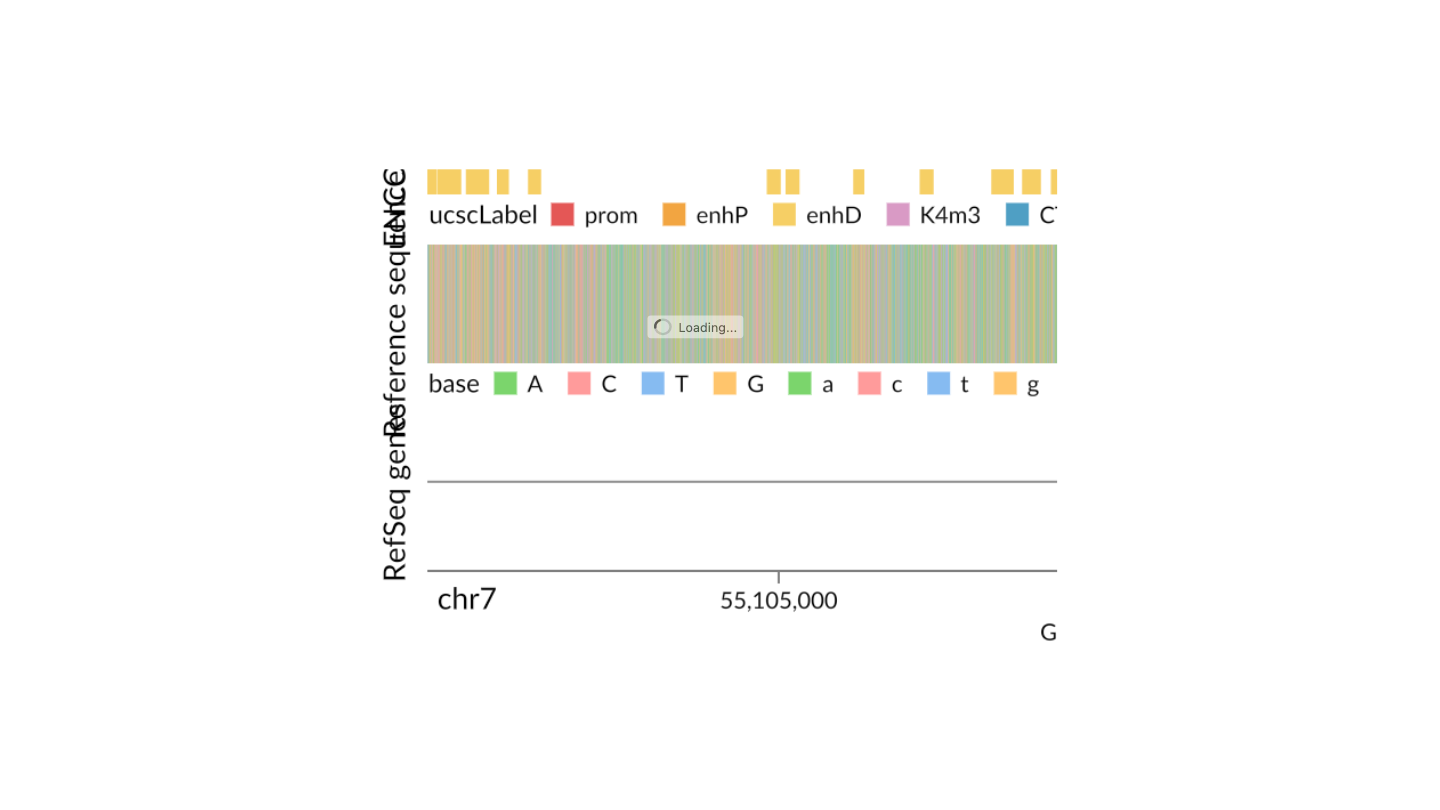
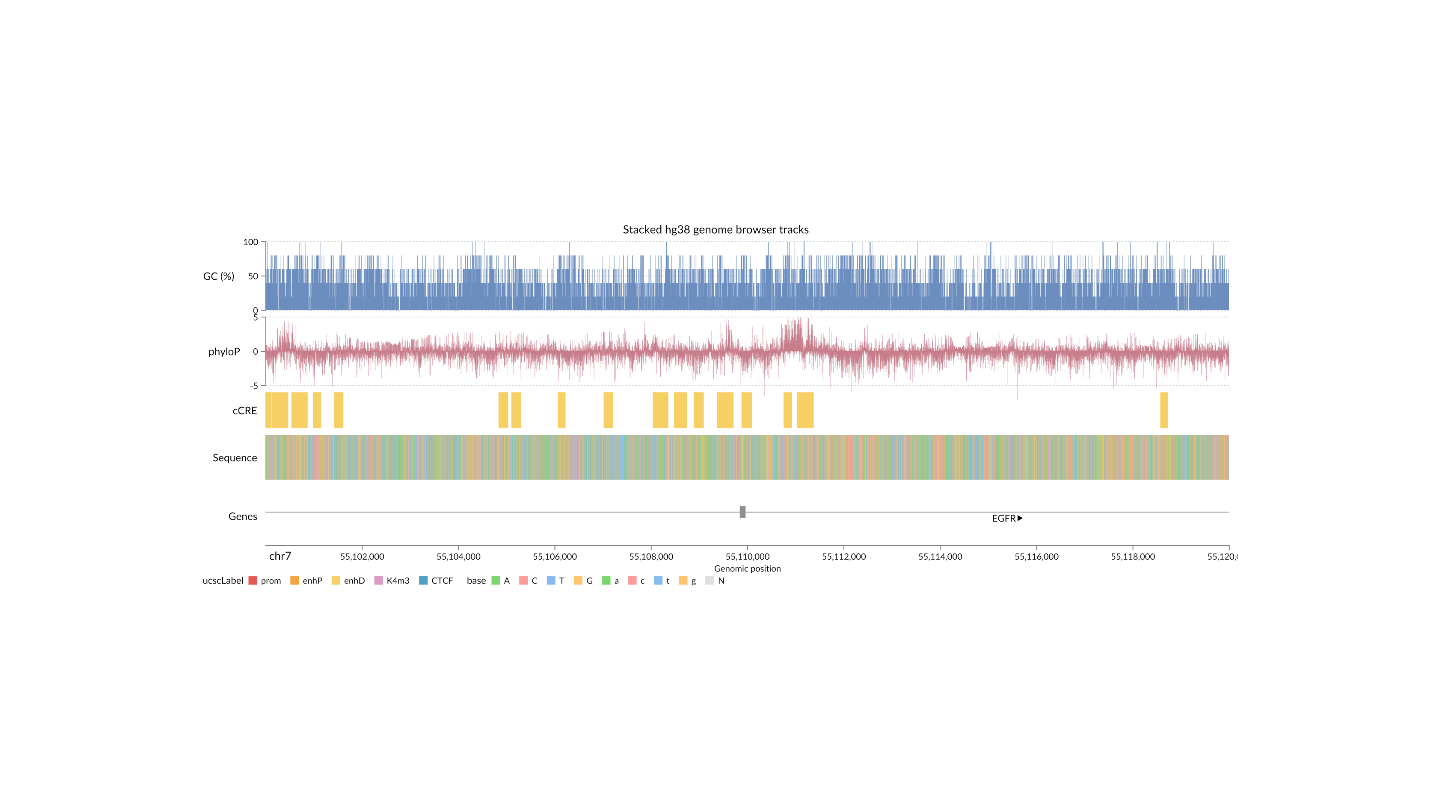
docs: fix stacked genome browser gallery example

Changed region(s): [[0.1562, 0.1852, 0.875, 0.7716], [0.7188, 0.7716, 0.75, 0.8025]]

diff --git a/docs/examples/stacked_genome_browser.py b/docs/examples/stacked_genome_browser.py
@@ -30,10 +30,10 @@ gc_track = (
         x2=gs.Locus("chrom", "end"),
         y=gs.Y("score:Q")
         .scale(domain=[0, 100])
-        .axis(title="GC (%)", grid=True, gridDash=[2, 2]),
+        .axis(title=None, grid=True, gridDash=[2, 2]),
     )
     .properties(
-        name="gc-content", title=gs.title("GC content", orient="left"), height=80
+        name="gc-content", title=gs.title("GC (%)", style="track-title"), height=80
     )
 )
 
@@ -51,11 +51,11 @@ conservation_track = (
         x2=gs.Locus("chrom", "end"),
         y=gs.Y("score:Q")
         .scale(domain=[-5, 5])
-        .axis(title="phyloP", grid=True, gridDash=[2, 2]),
+        .axis(title=None, grid=True, gridDash=[2, 2]),
     )
     .properties(
         name="phylop-100way",
-        title=gs.title("100-way conservation", orient="left"),
+        title=gs.title("phyloP", style="track-title"),
         height=80,
     )
 )
@@ -76,7 +76,7 @@ ccre_track = (
             range=["#e45756", "#f2a541", "#f6cf65", "#d99ac5", "#4f9fc4"],
         ),
     )
-    .properties(name="ccre", title=gs.title("ENCODE cCRE", orient="left"), height=42)
+    .properties(name="ccre", title=gs.title("cCRE", style="track-title"), height=42)
 )
 
 
@@ -99,7 +99,7 @@ sequence_track = (
     (sequence_rects + sequence_labels)
     .properties(
         name="sequence",
-        title=gs.title("Reference sequence", orient="left"),
+        title=gs.title("Sequence", style="track-title"),
         height=52,
         data=gs.lazy.indexed_fasta(
             "https://data.genomespy.app/genomes/hg38/hg38.fa", windowSize=30_000
@@ -201,7 +201,7 @@ refseq_track = (
     gs.layer(transcripts, symbols)
     .properties(
         name="refseq-track",
-        title=gs.title("RefSeq genes", orient="left"),
+        title=gs.title("Genes", style="track-title"),
         height=gs.step(23),
         data=gs.Data(
             url="https://data.genomespy.app/genomes/hg38/refSeqGenes-hg38-release232.tsv.gz",
@@ -259,6 +259,7 @@ chart = (
         spacing=8,
         scales=gs.scales(x=gs.Scale(domain=DOMAIN)),
     )
-    .resolve_scale(x="shared", y="independent")
+    .resolve_scale(x="shared", y="independent", color="independent")
     .resolve_axis(x="shared", y="independent")
+    .resolve_legend(color="collected")
 )

diff --git a/tests/test_docs_gallery.py b/tests/test_docs_gallery.py
@@ -510,8 +510,9 @@ def test_stacked_genome_browser_uses_shared_hg38_locus() -> None:
         {"chrom": "chr7", "pos": 55120000},
     ]
     assert example.spec["resolve"] == {
-        "scale": {"x": "shared", "y": "independent"},
+        "scale": {"x": "shared", "y": "independent", "color": "independent"},
         "axis": {"x": "shared", "y": "independent"},
+        "legend": {"color": "collected"},
     }
     assert example.spec["axes"] == {
         "x": {"orient": "bottom", "title": "Genomic position"}
@@ -526,6 +527,15 @@ def test_stacked_genome_browser_uses_shared_hg38_locus() -> None:
         "sequence",
         "refseq-track",
     ]
+    assert [track["title"] for track in tracks] == [
+        {"text": "GC (%)", "style": "track-title"},
+        {"text": "phyloP", "style": "track-title"},
+        {"text": "cCRE", "style": "track-title"},
+        {"text": "Sequence", "style": "track-title"},
+        {"text": "Genes", "style": "track-title"},
+    ]
+    assert tracks[0]["encoding"]["y"]["axis"]["title"] is None
+    assert tracks[1]["encoding"]["y"]["axis"]["title"] is None
     assert [track["data"]["lazy"]["type"] for track in tracks[:4]] == [
         "bigwig",
         "bigwig",

diff --git a/plans/devlog.md b/plans/devlog.md
@@ -1,5 +1,13 @@
 # Dev Log
 
+## 2026-08-24 - Tidied stacked genome-browser guides
+
+- Replaced long rotated labels with short horizontal `track-title` labels and
+  removed duplicate y-axis titles in the stacked genome-browser example.
+- Kept the unrelated cCRE and nucleotide color scales independent while using
+  GenomeSpy's collected legend resolution to place both legends together at
+  the parent track stack.
+
 ## 2026-08-24 - Fixed setup-uv action pins
 
 - Replaced nonexistent `astral-sh/setup-uv@v10` references in the CI,
